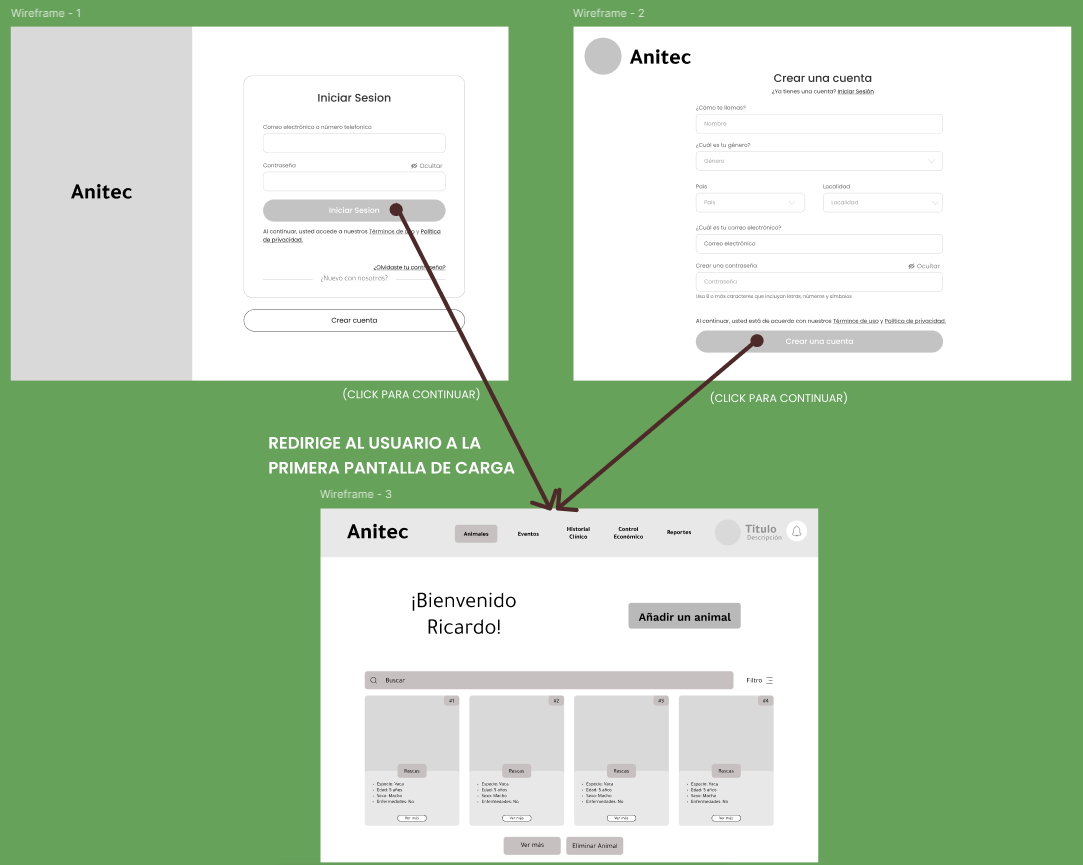
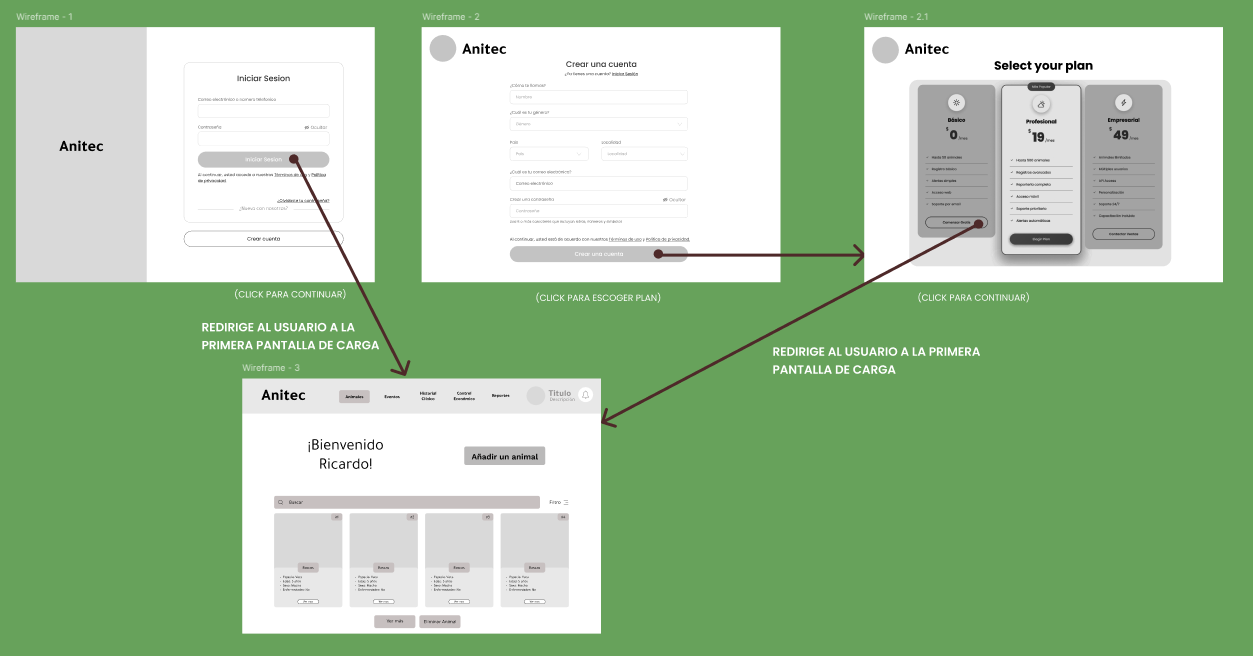
docs(README): improve wireframes and mockups

diff --git a/README.md b/README.md
@@ -1485,6 +1485,12 @@ Pantalla para registrarse en la aplicación
     <i><b>Fuente</b>: Elaboración propia.</i>
 </p>
 
+Pantalla para escoger el plan
+
+<img src="./assets\chapter-4\wireframesAppWeb/Wireframe - 2.1.png" width="500">
+<p>
+    <i><b>Fuente</b>: Elaboración propia.</i>
+</p>
 
 Pantalla de inicio dentro de la aplicación
 
@@ -1612,7 +1618,7 @@ Dashboard donde se presentan los reportes generados
 #### 4.4.2. Web Applications Wireflow Diagrams.
 En esta sección se presentan los Wireflows para cada objetivo del usuario. Para ello se consideró los User Persona correspondientes. Cada diagrama muestra el flujo de interacción. Enlace para acceder a los wireflows en Figma: [Web Application Wireflows](https://www.figma.com/design/9RliVy9r8aEzyfyEof3DGr/Untitled?node-id=44-1275&t=fdPLEZQXM0PqMAv3-1)
 
-- **Registro e Inicio del Ganadero:** El presente wireflow corresponde al flujo de interacción del usuario ganadero desde el registro o inicio de sesión hasta el acceso a la aplicación.
+- **Registro e Inicio del Ganadero:** El presente wireflow corresponde al flujo de interacción del usuario ganadero desde el registro, y selección del plan de la cuenta, o inicio de sesión hasta el acceso a la aplicación.
 
 <div align="center">
 <img src="./assets\chapter-4\wireframesAppWeb/Wireflow1.png" width="800">
@@ -1677,9 +1683,13 @@ En esta sección se presentan los Wireflows para cada objetivo del usuario. Para
 #### 4.4.3. Web Applications Mock-ups.
 En esta sección se exponen y analizan los mockups de la aplicación web AgroDigital, diseñada para el sector ganadero. En ellos se aprecia la implementación de principios fundamentales de diseño visual, accesibilidad, arquitectura de la información y del Design System definido para el producto. Cada mockup muestra cómo estos elementos se integran en una interfaz orientada a optimizar la trazabilidad, el control sanitario y la gestión eficiente del ganado. Asimismo, se incluye el enlace para acceder al contenido. [Enlace al figma](https://www.figma.com/design/9RliVy9r8aEzyfyEof3DGr/Untitled?node-id=42-837&t=fdPLEZQXM0PqMAv3-1)
 
+
+
+<div align="center"> 
+
 Pantalla de login en la aplicación
 
-<div align="center"> <img src="./assets\chapter-4\wireframesAppWeb/Login.png" width="500">
+ <img src="./assets\chapter-4\wireframesAppWeb/Mock-ups- 1.png" width="500">
 <p>
     <i><b>Fuente</b>: Elaboración propia.</i>
 </p>
@@ -1687,11 +1697,17 @@ Pantalla de login en la aplicación
 
 Pantalla para registrarse en la aplicación
 
-<img src="./assets\chapter-4\wireframesAppWeb/Create an account.png" width="500">
+<img src="./assets\chapter-4\wireframesAppWeb/Mock-ups- 2.png" width="500">
 <p>
     <i><b>Fuente</b>: Elaboración propia.</i>
 </p>
 
+Pantalla para escoger el plan
+
+<img src="./assets\chapter-4\wireframesAppWeb/Mock-ups- 3.png" width="500">
+<p>
+    <i><b>Fuente</b>: Elaboración propia.</i>
+</p>
 
 Pantalla de inicio dentro de la aplicación
 
